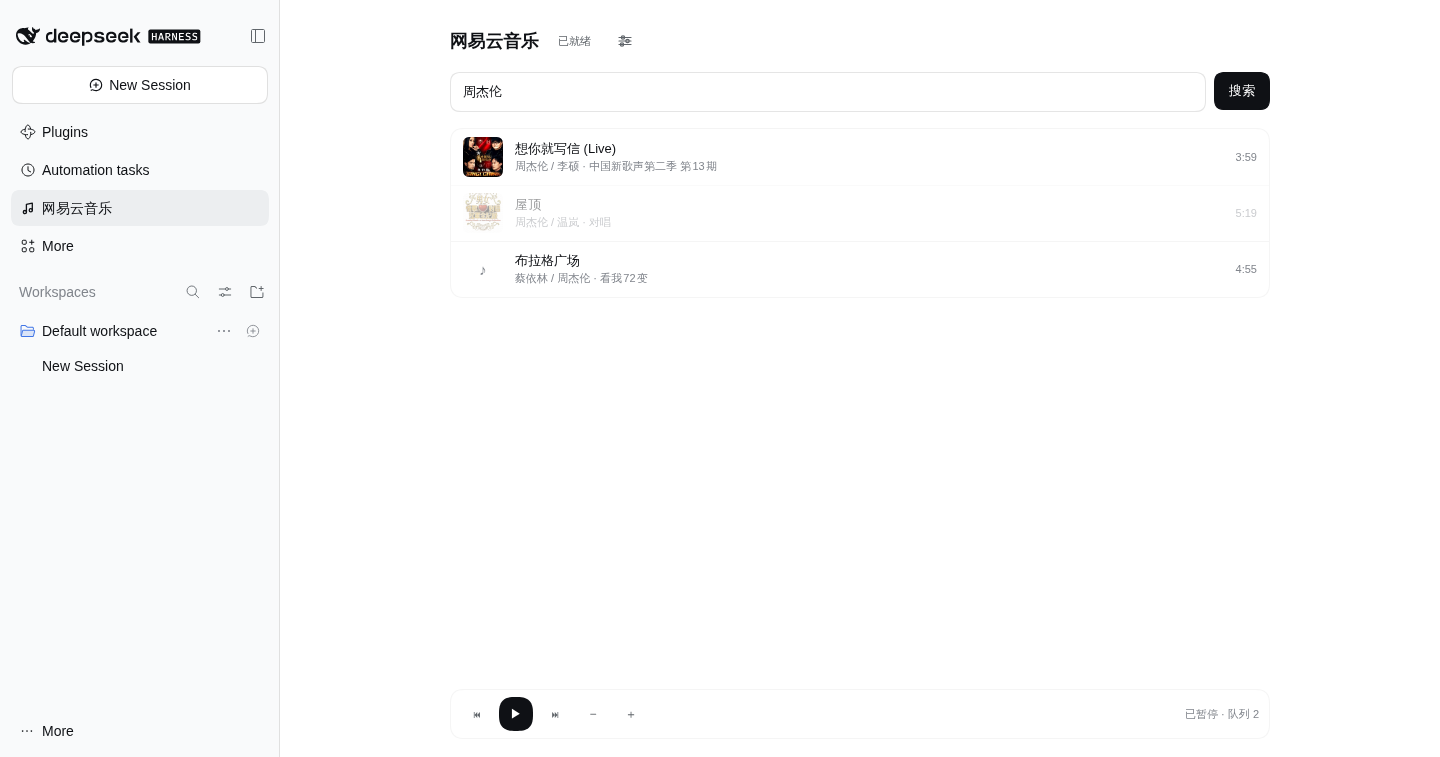
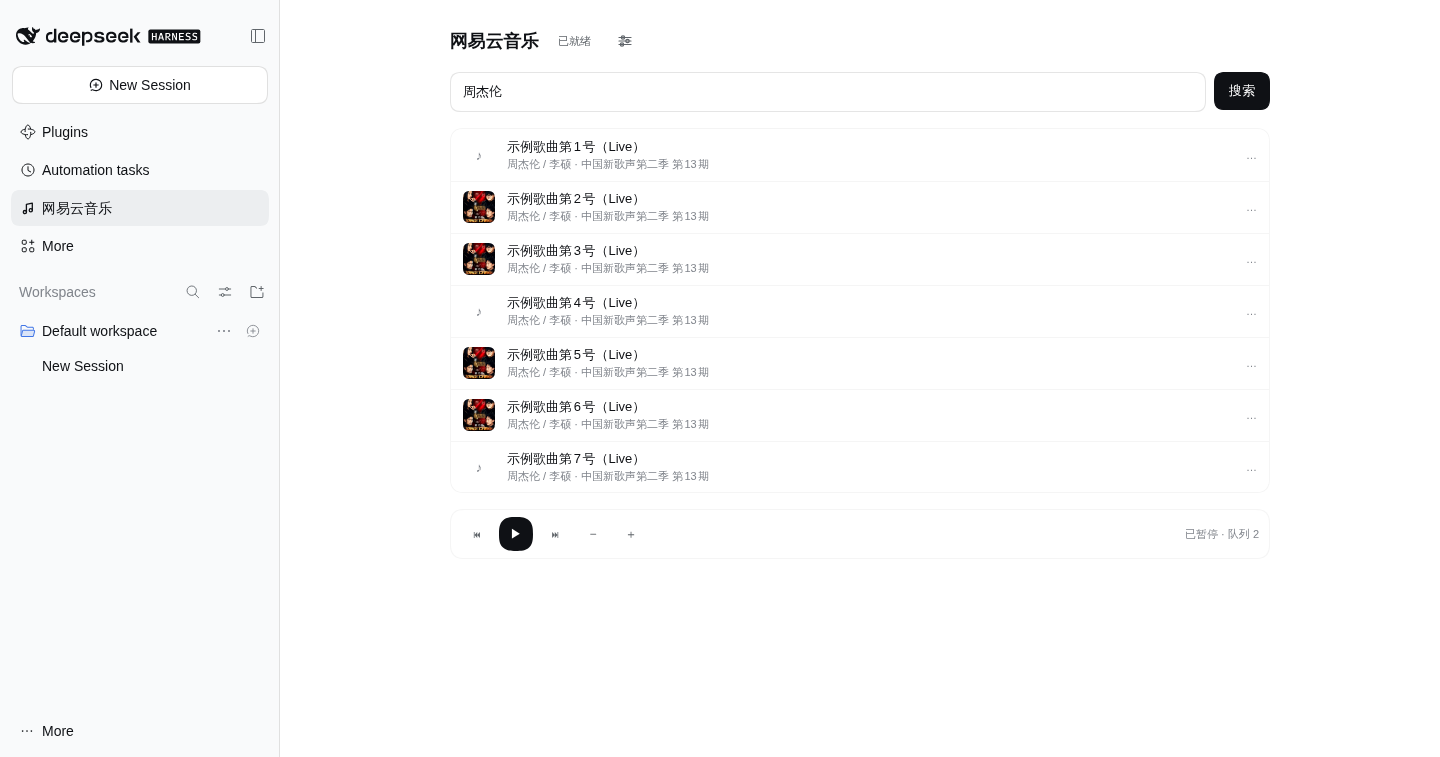
fix(ui): 封面与播放条布局加固
- 封面固定 32px 并写入 HTML width/height 属性，样式失效也不会撑大
- 结果列表高度上限改为视口相对（min(520px, 48vh)），不再依赖父容器高度链
- 播放条 position: sticky + flex:none，任何滚动上下文都保持在可视区

diff --git a/lib/client.js b/lib/client.js
@@ -267,12 +267,14 @@ select.ncm-input { padding-right: 8px; }
 .ncm-search .ncm-input { flex: 1; height: 38px; }
 .ncm-search .ncm-btn { height: 38px; }
 
-.ncm-results { flex: 0 1 auto; min-height: 0; max-height: 100%; overflow: auto; border: 1px solid var(--ncm-border-soft); border-radius: var(--dsw-radius-lg, 12px); background: var(--ncm-card); }
+.ncm-results { flex: 1 1 auto; min-height: 120px; max-height: min(520px, 48vh); overflow: auto; border: 1px solid var(--ncm-border-soft); border-radius: var(--dsw-radius-lg, 12px); background: var(--ncm-card); }
 .ncm-item { display: flex; align-items: center; gap: 12px; width: 100%; text-align: left; border: none; background: transparent; color: inherit; padding: 8px 12px; cursor: pointer; font-size: 13px; font-family: inherit; transition: background .12s ease; }
 .ncm-item + .ncm-item { box-shadow: inset 0 1px 0 var(--ncm-border-soft); }
 .ncm-item:hover:not(:disabled) { background: var(--ncm-hover); }
 .ncm-item:disabled { opacity: .42; cursor: default; }
-.ncm-cover { width: 40px; height: 40px; flex: none; border-radius: var(--dsw-radius-sm, 6px); object-fit: cover; background: var(--ncm-cover); display: flex; align-items: center; justify-content: center; color: var(--ncm-faint); font-size: 15px; }
+.ncm-cover { width: 32px; height: 32px; flex: 0 0 32px; border-radius: var(--dsw-radius-sm, 6px); object-fit: cover; background: var(--ncm-cover); overflow: hidden; }
+img.ncm-cover { display: block; }
+span.ncm-cover { display: inline-flex; align-items: center; justify-content: center; color: var(--ncm-faint); font-size: 13px; }
 .ncm-item-main { flex: 1; min-width: 0; }
 .ncm-item-name { font-size: 13px; line-height: 19px; overflow: hidden; text-overflow: ellipsis; white-space: nowrap; }
 .ncm-item-sub { font-size: 11px; line-height: 17px; color: var(--ncm-faint); overflow: hidden; text-overflow: ellipsis; white-space: nowrap; }
@@ -280,8 +282,7 @@ select.ncm-input { padding-right: 8px; }
 .ncm-empty { height: 100%; min-height: 180px; display: flex; flex-direction: column; align-items: center; justify-content: center; gap: 8px; font-size: 12px; color: var(--ncm-faint); }
 .ncm-empty-mark { font-size: 22px; opacity: .5; }
 
-.ncm-spacer { flex: 1 1 auto; min-height: 0; }
-.ncm-player { display: flex; align-items: center; gap: 6px; border: 1px solid var(--ncm-border-soft); border-radius: var(--dsw-radius-lg, 12px); padding: 7px 10px; background: var(--ncm-card); }
+.ncm-player { position: sticky; bottom: 0; z-index: 2; flex: none; display: flex; align-items: center; gap: 6px; border: 1px solid var(--ncm-border-soft); border-radius: var(--dsw-radius-lg, 12px); padding: 7px 10px; background: var(--ncm-card); }
 .ncm-player button { width: 32px; height: 32px; display: inline-flex; align-items: center; justify-content: center; border-radius: var(--dsw-radius-sm, 6px); border: none; background: transparent; color: var(--ncm-muted); cursor: pointer; font-size: 12px; transition: background .12s ease, color .12s ease; }
 .ncm-player button:hover { background: var(--ncm-hover); color: var(--ncm-fg); }
 .ncm-player button.ncm-play { width: 34px; height: 34px; border-radius: 50%; background: var(--ncm-accent); color: var(--dsw-alias-label-primary-foreground, #fff); }
@@ -383,7 +384,7 @@ function MusicPage() {
             void playSong(song);
           },
           children: [
-            song.cover === null ? /* @__PURE__ */ (0, import_jsx_runtime.jsx)("span", { className: "ncm-cover", "aria-hidden": "true", children: "\u266A" }) : /* @__PURE__ */ (0, import_jsx_runtime.jsx)("img", { className: "ncm-cover", src: song.cover, alt: "", loading: "lazy", onError: (event) => {
+            song.cover === null ? /* @__PURE__ */ (0, import_jsx_runtime.jsx)("span", { className: "ncm-cover", "aria-hidden": "true", children: "\u266A" }) : /* @__PURE__ */ (0, import_jsx_runtime.jsx)("img", { className: "ncm-cover", width: 32, height: 32, src: song.cover, alt: "", loading: "lazy", onError: (event) => {
               event.currentTarget.style.visibility = "hidden";
             } }),
             /* @__PURE__ */ (0, import_jsx_runtime.jsxs)("div", { className: "ncm-item-main", children: [
@@ -403,7 +404,6 @@ function MusicPage() {
       /* @__PURE__ */ (0, import_jsx_runtime.jsx)("span", { children: state.error }),
       /* @__PURE__ */ (0, import_jsx_runtime.jsx)("button", { className: "ncm-back", onClick: () => setState({ error: null }), children: "\u5173\u95ED" })
     ] }),
-    /* @__PURE__ */ (0, import_jsx_runtime.jsx)("div", { className: "ncm-spacer", style: showSettings ? { display: "none" } : void 0 }),
     /* @__PURE__ */ (0, import_jsx_runtime.jsxs)("div", { className: "ncm-player", style: showSettings ? { display: "none" } : void 0, children: [
       /* @__PURE__ */ (0, import_jsx_runtime.jsx)("button", { title: "\u4E0A\u4E00\u9996", onClick: () => {
         void runControl("prev");

diff --git a/src/client.tsx b/src/client.tsx
@@ -375,12 +375,14 @@ select.ncm-input { padding-right: 8px; }
 .ncm-search .ncm-input { flex: 1; height: 38px; }
 .ncm-search .ncm-btn { height: 38px; }
 
-.ncm-results { flex: 0 1 auto; min-height: 0; max-height: 100%; overflow: auto; border: 1px solid var(--ncm-border-soft); border-radius: var(--dsw-radius-lg, 12px); background: var(--ncm-card); }
+.ncm-results { flex: 1 1 auto; min-height: 120px; max-height: min(520px, 48vh); overflow: auto; border: 1px solid var(--ncm-border-soft); border-radius: var(--dsw-radius-lg, 12px); background: var(--ncm-card); }
 .ncm-item { display: flex; align-items: center; gap: 12px; width: 100%; text-align: left; border: none; background: transparent; color: inherit; padding: 8px 12px; cursor: pointer; font-size: 13px; font-family: inherit; transition: background .12s ease; }
 .ncm-item + .ncm-item { box-shadow: inset 0 1px 0 var(--ncm-border-soft); }
 .ncm-item:hover:not(:disabled) { background: var(--ncm-hover); }
 .ncm-item:disabled { opacity: .42; cursor: default; }
-.ncm-cover { width: 40px; height: 40px; flex: none; border-radius: var(--dsw-radius-sm, 6px); object-fit: cover; background: var(--ncm-cover); display: flex; align-items: center; justify-content: center; color: var(--ncm-faint); font-size: 15px; }
+.ncm-cover { width: 32px; height: 32px; flex: 0 0 32px; border-radius: var(--dsw-radius-sm, 6px); object-fit: cover; background: var(--ncm-cover); overflow: hidden; }
+img.ncm-cover { display: block; }
+span.ncm-cover { display: inline-flex; align-items: center; justify-content: center; color: var(--ncm-faint); font-size: 13px; }
 .ncm-item-main { flex: 1; min-width: 0; }
 .ncm-item-name { font-size: 13px; line-height: 19px; overflow: hidden; text-overflow: ellipsis; white-space: nowrap; }
 .ncm-item-sub { font-size: 11px; line-height: 17px; color: var(--ncm-faint); overflow: hidden; text-overflow: ellipsis; white-space: nowrap; }
@@ -388,8 +390,7 @@ select.ncm-input { padding-right: 8px; }
 .ncm-empty { height: 100%; min-height: 180px; display: flex; flex-direction: column; align-items: center; justify-content: center; gap: 8px; font-size: 12px; color: var(--ncm-faint); }
 .ncm-empty-mark { font-size: 22px; opacity: .5; }
 
-.ncm-spacer { flex: 1 1 auto; min-height: 0; }
-.ncm-player { display: flex; align-items: center; gap: 6px; border: 1px solid var(--ncm-border-soft); border-radius: var(--dsw-radius-lg, 12px); padding: 7px 10px; background: var(--ncm-card); }
+.ncm-player { position: sticky; bottom: 0; z-index: 2; flex: none; display: flex; align-items: center; gap: 6px; border: 1px solid var(--ncm-border-soft); border-radius: var(--dsw-radius-lg, 12px); padding: 7px 10px; background: var(--ncm-card); }
 .ncm-player button { width: 32px; height: 32px; display: inline-flex; align-items: center; justify-content: center; border-radius: var(--dsw-radius-sm, 6px); border: none; background: transparent; color: var(--ncm-muted); cursor: pointer; font-size: 12px; transition: background .12s ease, color .12s ease; }
 .ncm-player button:hover { background: var(--ncm-hover); color: var(--ncm-fg); }
 .ncm-player button.ncm-play { width: 34px; height: 34px; border-radius: 50%; background: var(--ncm-accent); color: var(--dsw-alias-label-primary-foreground, #fff); }
@@ -538,7 +539,7 @@ function MusicPage() {
             >
               {song.cover === null
                 ? <span className="ncm-cover" aria-hidden="true">♪</span>
-                : <img className="ncm-cover" src={song.cover} alt="" loading="lazy" onError={(event) => { event.currentTarget.style.visibility = 'hidden' }} />}
+                : <img className="ncm-cover" width={32} height={32} src={song.cover} alt="" loading="lazy" onError={(event) => { event.currentTarget.style.visibility = 'hidden' }} />}
               <div className="ncm-item-main">
                 <div className="ncm-item-name">{song.name}</div>
                 <div className="ncm-item-sub">{song.artists.join(' / ')}{song.album === '' ? '' : ` · ${song.album}`}</div>
@@ -554,8 +555,6 @@ function MusicPage() {
             <button className="ncm-back" onClick={() => setState({ error: null })}>关闭</button>
           </div>
         )}
-
-        <div className="ncm-spacer" style={showSettings ? { display: 'none' } : undefined} />
 
         <div className="ncm-player" style={showSettings ? { display: 'none' } : undefined}>
           <button title="上一首" onClick={() => { void runControl('prev') }}>⏮</button>
